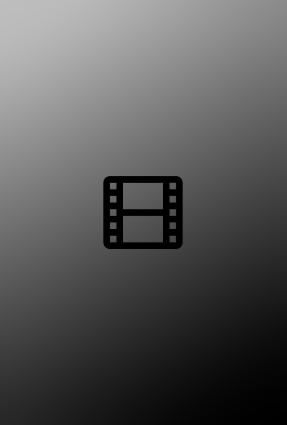
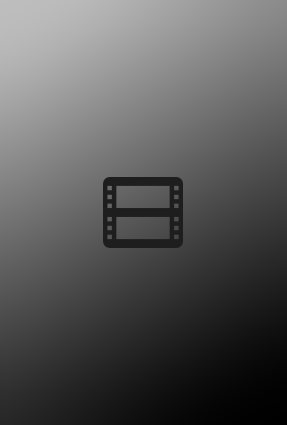
Fix fallback images Use photo transcoding

Changed region(s): [[0.3624, 0.3976, 0.6411, 0.6118]]

diff --git a/lib/windows/home.py b/lib/windows/home.py
@@ -93,7 +93,7 @@ class HomeWindow(kodigui.BaseWindow):
         'home.television.recent': {'index': 3},
         'home.movies.recent': {'index': 4},
         'home.music.recent': {'index': 5},
-        'home.videos.recent': {'index': 6},
+        'home.videos.recent': {'index': 6, 'ar16x9': True},
         'home.photos.recent': {'index': 9},
         # SHOW
         'tv.ondeck': {'index': 1},
@@ -124,12 +124,16 @@ class HomeWindow(kodigui.BaseWindow):
         'photo.random.year': {'index': 9},
         'photo.random.decade': {'index': 10},
         # VIDEO
-        'video.recent': {'index': 0},
-        'video.random.year': {'index': 6},
-        'video.random.decade': {'index': 15},
-        'video.inprogress': {'index': 16, 'with_progress': True, 'with_art': True},
-        'video.unwatched.random': {'index': 17},
+        'video.recent': {'index': 0, 'ar16x9': True},
+        'video.random.year': {'index': 6, 'ar16x9': True},
+        'video.random.decade': {'index': 15, 'ar16x9': True},
+        'video.inprogress': {'index': 16, 'with_progress': True, 'ar16x9': True},
+        'video.unwatched.random': {'index': 17, 'ar16x9': True},
     }
+
+    THUMB_POSTER_DIM = (287, 425)
+    THUMB_AR16X9_DIM = (619, 348)
+    THUMB_SQUARE_DIM = (425, 425)
 
     def __init__(self, *args, **kwargs):
         kodigui.BaseWindow.__init__(self, *args, **kwargs)
@@ -291,37 +295,53 @@ class HomeWindow(kodigui.BaseWindow):
             else:
                 util.DEBUG_LOG('UNHANDLED - Hub: {0} ({1})'.format(hub.hubIdentifier, len(hub.items)))
 
-    def createGrandparentedListItem(self, obj):
+    def createGrandparentedListItem(self, obj, thumb_w, thumb_h):
         title = obj.grandparentTitle or obj.parentTitle or obj.title or ''
-        mli = kodigui.ManagedListItem(title, thumbnailImage=obj.thumbUrl, data_source=obj)
+        mli = kodigui.ManagedListItem(title, thumbnailImage=obj.transcodedThumbURL(thumb_w, thumb_h), data_source=obj)
         return mli
 
-    def createParentedListItem(self, obj):
+    def createParentedListItem(self, obj, thumb_w, thumb_h):
         title = obj.parentTitle or obj.title or ''
-        mli = kodigui.ManagedListItem(title, thumbnailImage=obj.thumbUrl, data_source=obj)
+        mli = kodigui.ManagedListItem(title, thumbnailImage=obj.transcodedThumbURL(thumb_w, thumb_h), data_source=obj)
         return mli
 
-    def createSimpleListItem(self, obj):
-        mli = kodigui.ManagedListItem(obj.title or '', thumbnailImage=obj.thumbUrl, data_source=obj)
+    def createSimpleListItem(self, obj, thumb_w, thumb_h):
+        mli = kodigui.ManagedListItem(obj.title or '', thumbnailImage=obj.transcodedThumbURL(thumb_w, thumb_h), data_source=obj)
         return mli
 
     def createListItem(self, obj):
         if obj.type == 'episode':
-            return self.createGrandparentedListItem(obj)
+            mli = self.createGrandparentedListItem(obj, *self.THUMB_POSTER_DIM)
+            mli.setProperty('thumb.fallback', 'script.plex/thumb_fallbacks/show.png')
+            return mli
         elif obj.type == 'season':
-            return self.createParentedListItem(obj)
+            mli = self.createParentedListItem(obj, *self.THUMB_POSTER_DIM)
+            mli.setProperty('thumb.fallback', 'script.plex/thumb_fallbacks/show.png')
+            return mli
         elif obj.type == 'movie':
-            return self.createSimpleListItem(obj)
+            mli = self.createSimpleListItem(obj, *self.THUMB_POSTER_DIM)
+            mli.setProperty('thumb.fallback', 'script.plex/thumb_fallbacks/movie.png')
+            return mli
         elif obj.type == 'show':
-            return self.createSimpleListItem(obj)
+            mli = self.createSimpleListItem(obj, *self.THUMB_POSTER_DIM)
+            mli.setProperty('thumb.fallback', 'script.plex/thumb_fallbacks/show.png')
+            return mli
         elif obj.type == 'album':
-            return self.createParentedListItem(obj)
+            mli = self.createParentedListItem(obj, *self.THUMB_SQUARE_DIM)
+            mli.setProperty('thumb.fallback', 'script.plex/thumb_fallbacks/music.png')
+            return mli
         elif obj.type == 'track':
-            return self.createParentedListItem(obj)
+            mli = self.createParentedListItem(obj, *self.THUMB_SQUARE_DIM)
+            mli.setProperty('thumb.fallback', 'script.plex/thumb_fallbacks/music.png')
+            return mli
         elif obj.type == 'photo':
-            return self.createSimpleListItem(obj)
+            mli = self.createSimpleListItem(obj, *self.THUMB_SQUARE_DIM)
+            mli.setProperty('thumb.fallback', 'script.plex/thumb_fallbacks/photo.png')
+            return mli
         elif obj.type == 'clip':
-            return self.createSimpleListItem(obj)
+            mli = self.createSimpleListItem(obj, *self.THUMB_AR16X9_DIM)
+            mli.setProperty('thumb.fallback', 'script.plex/thumb_fallbacks/movie16x9.png')
+            return mli
         else:
             util.DEBUG_LOG('Unhandled Hub item: {0}'.format(obj.type))
 
@@ -329,7 +349,7 @@ class HomeWindow(kodigui.BaseWindow):
         for control in self.hubControls:
             control.reset()
 
-    def showHub(self, hub, index=None, with_progress=False, with_art=False):
+    def showHub(self, hub, index=None, with_progress=False, with_art=False, ar16x9=False):
         if not hub.items:
             return
 
@@ -338,14 +358,22 @@ class HomeWindow(kodigui.BaseWindow):
         control = self.hubControls[index]
 
         items = []
+
         for obj in hub.items:
             mli = self.createListItem(obj)
             if mli:
-                if with_progress:
-                    mli.setProperty('progress', util.getProgressImage(obj))
-                if with_art:
-                    mli.setThumbnailImage(obj.artUrl)
                 items.append(mli)
+
+        if with_progress:
+            for mli in items:
+                mli.setProperty('progress', util.getProgressImage(mli.dataSource))
+        if with_art:
+            for mli in items:
+                mli.setThumbnailImage(mli.dataSource.transcodedArtURL(*self.THUMB_AR16X9_DIM))
+                mli.setProperty('thumb.fallback', 'script.plex/thumb_fallbacks/movie16x9.png')
+        if ar16x9:
+            for mli in items:
+                mli.setProperty('thumb.fallback', 'script.plex/thumb_fallbacks/movie16x9.png')
 
         control.addItems(items)
 

diff --git a/lib/_included_packages/plexapi/server.py b/lib/_included_packages/plexapi/server.py
@@ -55,6 +55,7 @@ class PlexServer(object):
         self.machineIdentifier = data.attrib.get('machineIdentifier')
         self.myPlex = bool(data.attrib.get('myPlex') == '1')
         self.multiuser = bool(data.attrib.get('multiuser') == '1')
+        self.synced = bool(data.attrib.get('synced') == '1')
         self.myPlexMappingState = data.attrib.get('myPlexMappingState')
         self.myPlexSigninState = data.attrib.get('myPlexSigninState')
         self.myPlexSubscription = data.attrib.get('myPlexSubscription')
@@ -62,6 +63,8 @@ class PlexServer(object):
         self.platform = data.attrib.get('platform')
         self.platformVersion = data.attrib.get('platformVersion')
         self.transcoderActiveVideoSessions = int(data.attrib.get('transcoderActiveVideoSessions', 0))
+        self.transcoderPhoto = bool(data.attrib.get('transcoderPhoto') == '1')
+        self.transcoderAudio = bool(data.attrib.get('transcoderAudio') == '1')
         self.updatedAt = int(data.attrib.get('updatedAt', 0))
         self.version = data.attrib.get('version')
         self.isSecure = self.baseuri.startswith('https://')
@@ -155,6 +158,55 @@ class PlexServer(object):
 
     def sessions(self):
         return utils.listItems(self, '/status/sessions')
+
+    # Ported from Roku code #################################
+    def getLocalServerPort(self):
+        # TODO(schuyler): The correct thing to do here is to iterate over local
+        # connections and pull out the port. For now, we're always returning 32400.
+
+        return "32400"
+
+    def isRequestToServer(self, url):
+        # if m.activeconnection = invalid then return false
+
+        schemeAndHost = ''.join(self.baseuri.split(':', 2)[0:2])
+
+        return url[:len(schemeAndHost)] == schemeAndHost
+
+    def convertUrlToLoopBack(self, url):
+        # If the URL starts with our server URL, replace it with 127.0.0.1:32400.
+        if self.isRequestToServer(url):
+            url = "http://127.0.0.1:32400" + url[len(self.baseuri) - 1:]
+
+        return url
+
+    def getImageTranscodeURL(self, path, width, height, extraopts=None):
+        if not self.transcoderPhoto:
+            return self.url(path)
+
+        # Build up our parameters
+        params = "&width=" + str(width) + "&height=" + str(height)
+
+        if extraopts:
+            for key in extraopts:
+                params = params + "&" + key + "=" + str(extraopts[key])
+
+        if "://" in path:
+            imageUrl = self.convertUrlToLoopBack(path)
+        else:
+            imageUrl = "http://127.0.0.1:" + self.getLocalServerPort() + path
+
+        path = "/photo/:/transcode?url=" + quote(imageUrl) + params
+
+        # Try to use a better server to transcode for synced servers
+        # TODO: Implement (ruuk)
+        if self.synced:
+            selectedServer = None  # PlexServerManager().GetTranscodeServer("photo")
+            if selectedServer:
+                return selectedServer.url(path)
+
+        return self.url(path)
+    #######################################################
 
     def url(self, path):
         if self.token:

diff --git a/lib/_included_packages/plexapi/utils.py b/lib/_included_packages/plexapi/utils.py
@@ -65,9 +65,24 @@ class PlexPartialObject(object):
         except TypeError:
             return ''
 
+    def transcodedThumbURL(self, w=400, h=400):
+        try:
+            return self.server.getImageTranscodeURL(self.thumb, w, h)
+        except TypeError:
+            return ''
+
     @property
     def artUrl(self):
-        return self.server.url(self.art)
+        try:
+            return self.server.url(self.art)
+        except TypeError:
+            return ''
+
+    def transcodedArtURL(self, w=640, h=360):
+        try:
+            return self.server.getImageTranscodeURL(self.art, w, h)
+        except TypeError:
+            return ''
 
     def _getStreamURL(self, **params):
         if self.TYPE not in ('movie', 'episode', 'track'):

diff --git a/lib/_included_packages/plexapi/video.py b/lib/_included_packages/plexapi/video.py
@@ -251,6 +251,12 @@ class Episode(Video):
         except TypeError:
             return ''
 
+    def transcodedThumbURL(self, w=270, h=400):
+        try:
+            return self.server.getImageTranscodeURL(self.grandparentThumb or self.parentThumb or self.thumb, w, h)
+        except TypeError:
+            return ''
+
     def getStreamURL(self, **params):
         return self._getStreamURL(videoResolution='800x600', **params)
 

diff --git a/lib/_included_packages/plexapi/audio.py b/lib/_included_packages/plexapi/audio.py
@@ -149,6 +149,9 @@ class Track(Audio):
     def thumbUrl(self):
         return self.server.url(self.parentThumb)
 
+    def transcodedThumbURL(self, w=400, h=400):
+        return self.server.getImageTranscodeURL(self.parentThumb, w, h)
+
     def album(self):
         return utils.listItems(self.server, self.parentKey)[0]
 
